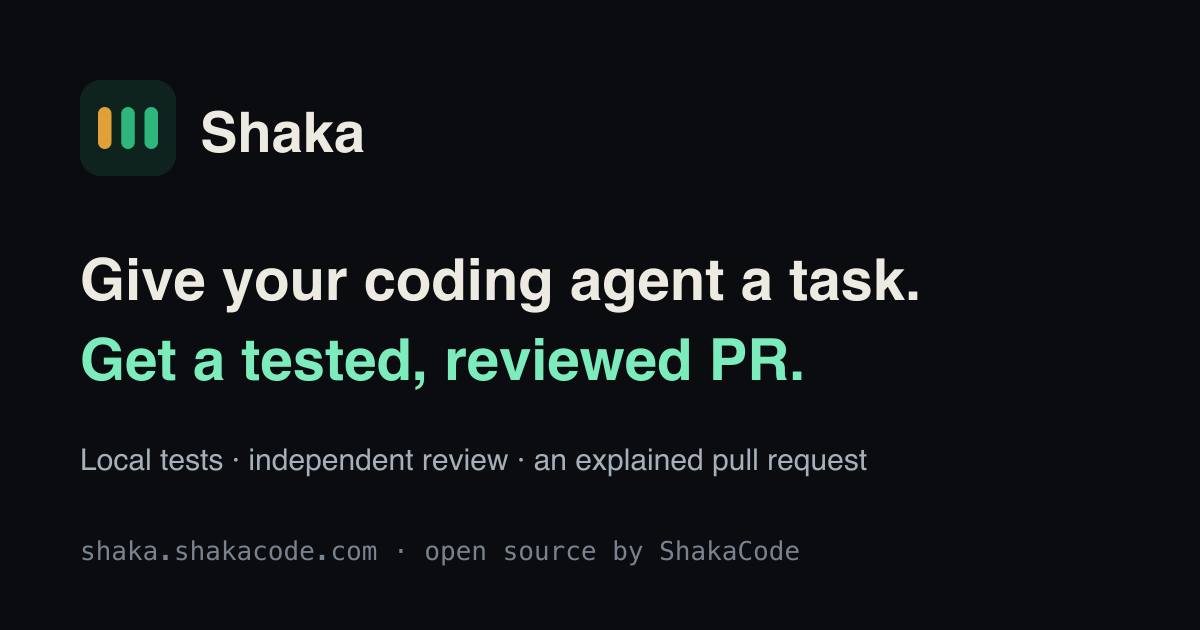
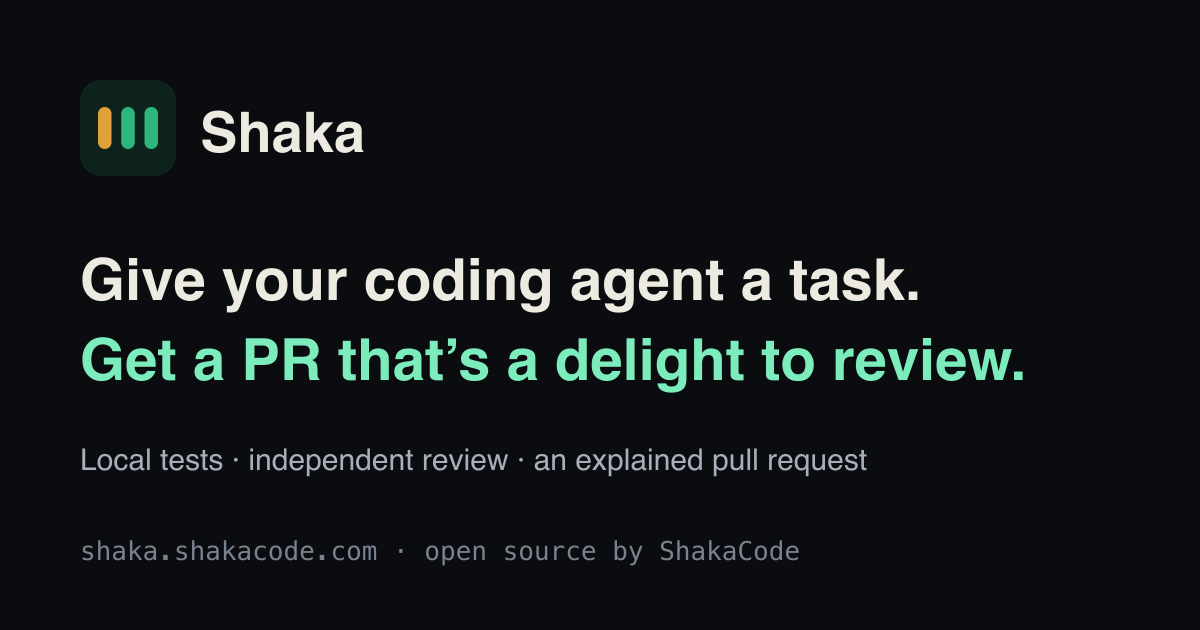
Use "PRs that are a delight to review" as the site tagline and hero (#19)
The homepage headline and browser title now end with "Get a PR that's a
delight to review." in place of "Get a PR you can evaluate." The
Docusaurus tagline is the exact phrase, and the social card SVG and its
regenerated PNG show the new second line. The lead paragraph still
covers evidence and merge decisions.

Changed region(s): [[0.185, 0.5127, 0.8633, 0.6333]]

diff --git a/prototypes/docusaurus/src/pages/index.tsx b/prototypes/docusaurus/src/pages/index.tsx
@@ -60,7 +60,7 @@ const steps = [
 export default function Home(): ReactNode {
   return (
     <Layout
-      title="Give your coding agent a task. Get a PR you can evaluate."
+      title="Give your coding agent a task. Get a PR that’s a delight to review."
       description="Shaka guides coding agents through your repository’s checks, independent review, and a clear GitHub handoff. Open source, for developers and growing projects.">
       <header className={styles.hero}>
         <div className={clsx('container', styles.heroGrid)}>
@@ -68,7 +68,7 @@ export default function Home(): ReactNode {
             <p className={styles.eyebrow}>Open source · Codex, Claude Code, Cursor and more</p>
             <h1 className={styles.heroTitle}>
               Give your coding agent a task.{' '}
-              <span className={styles.accent}>Get a PR you can evaluate.</span>
+              <span className={styles.accent}>Get a PR that’s a delight to review.</span>
             </h1>
             <p className={styles.heroLead}>
               Shaka guides the work through your repository’s checks, independent review, and a clear

diff --git a/prototypes/docusaurus/docusaurus.config.ts b/prototypes/docusaurus/docusaurus.config.ts
@@ -73,7 +73,7 @@ const structuredData = {
 
 const config: Config = {
   title: 'Shaka',
-  tagline: 'Give your coding agent a task. Get a tested, reviewed PR.',
+  tagline: 'PRs that are a delight to review.',
   favicon: 'img/brand/mark.svg',
 
   future: {
